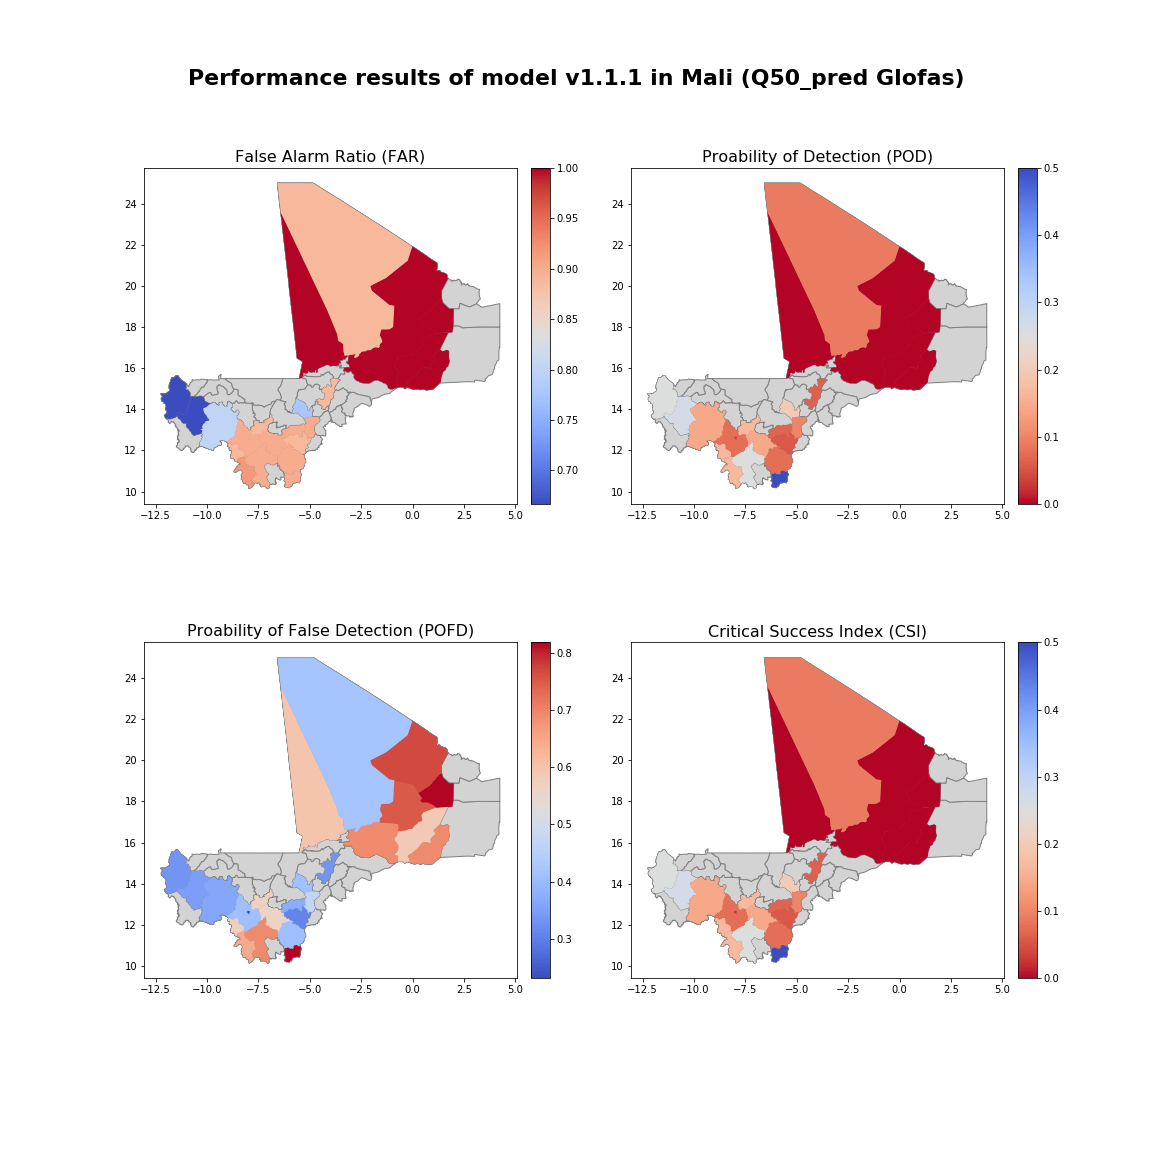
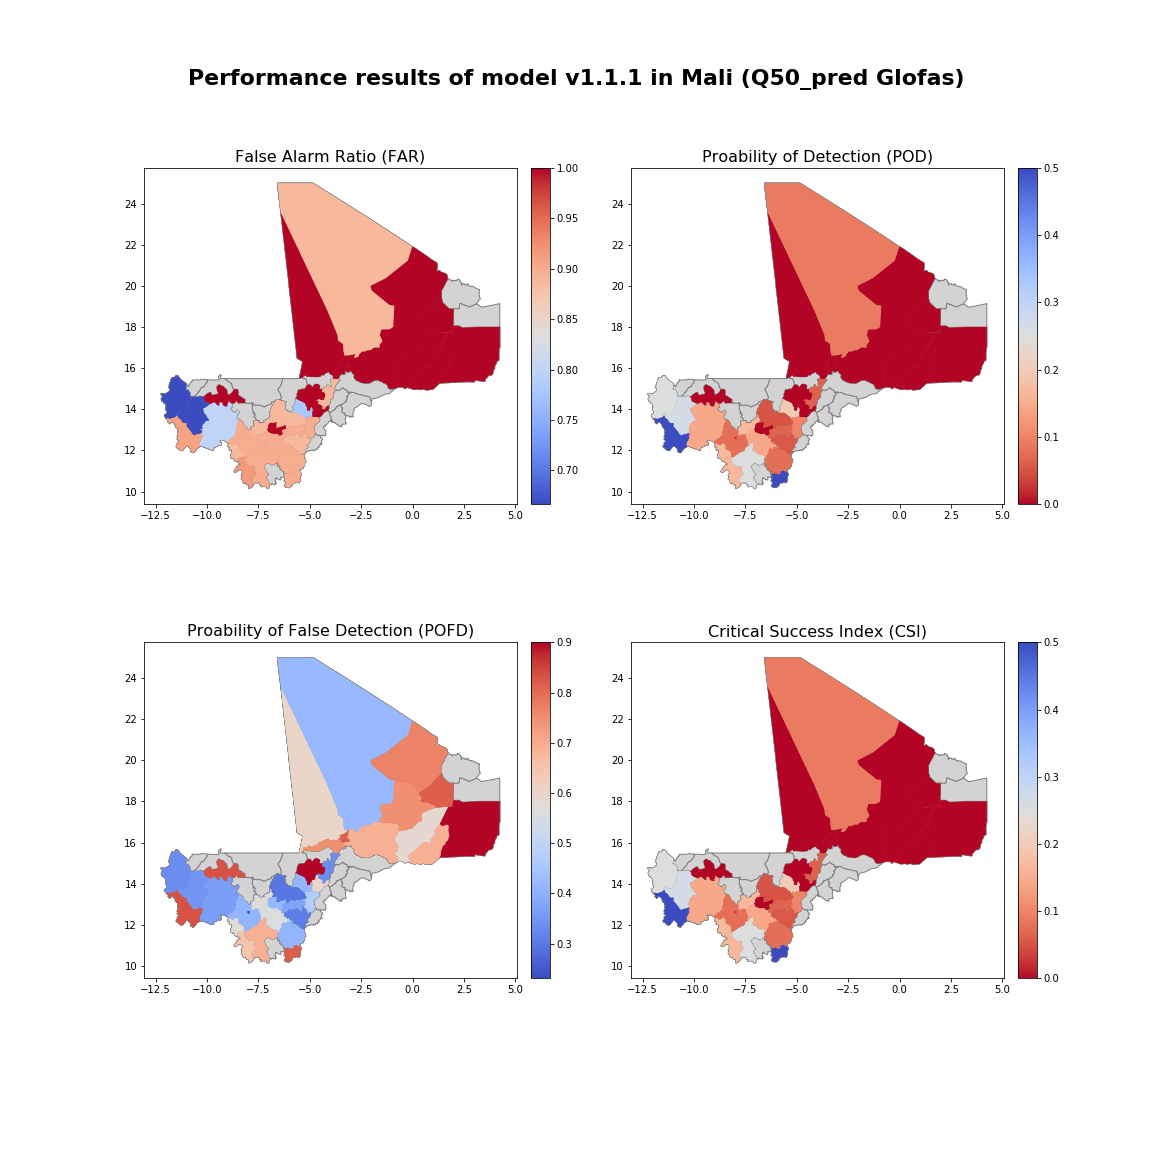
remove accent in district name for Mali

diff --git a/scripts/IBF_flood_model_performance_visual.py b/scripts/IBF_flood_model_performance_visual.py
@@ -50,8 +50,9 @@ best= model_perf.groupby(['district', 'quantile'])['far'].transform(min)==model_
 model_perf_best= model_perf[best]
 
 # lower case the district column in both file and merge
-district[Admin_col]= district[Admin_col].str.lower()
+district[Admin_col]= district[Admin_col].str.replace(u"é", "e").str.lower()
 model_perf_best['district']= model_perf_best['district'].str.lower()
+
 
 merged_perf= district.set_index(Admin_col).join(model_perf_best.set_index('district')) 
 merged_perf.to_file(path + 'output/Performance_scores/perf_%s_v111.shp' %ct_code)
